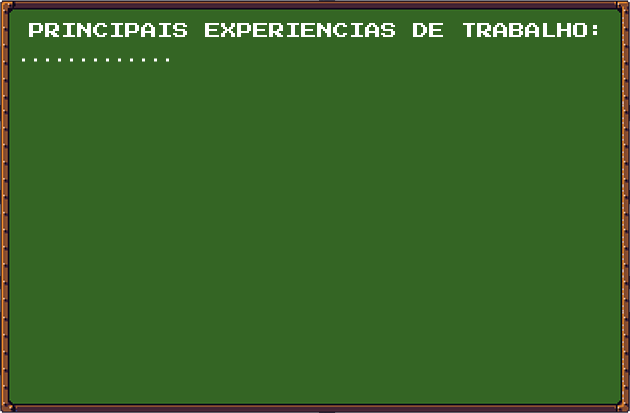
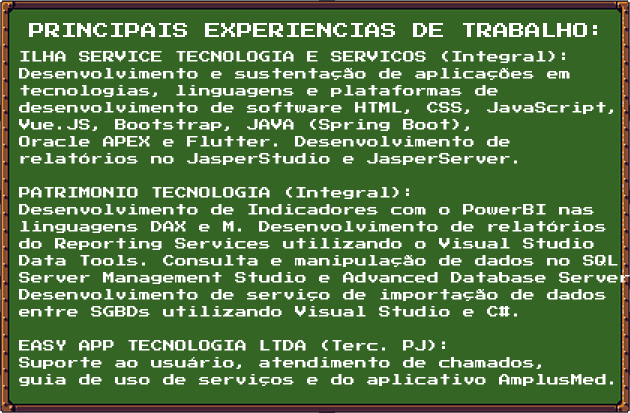
Adicionando informações de experiência e projetos

diff --git a/src/components/ContentBody/styled.js b/src/components/ContentBody/styled.js
@@ -268,7 +268,7 @@ export const IconGit = styled.button`
   position: absolute;
   width: 56px;
   height: 56px;
-  left: 306px;
+  left: 308px;
   top: 93px;
   cursor: pointer;
   background-color: #442434;
@@ -281,7 +281,7 @@ export const IconSB = styled.button`
   position: absolute;
   width: 56px;
   height: 56px;
-  left: 380px;
+  left: 377px;
   right: 380px;
   top: 93px;
   cursor: pointer;
